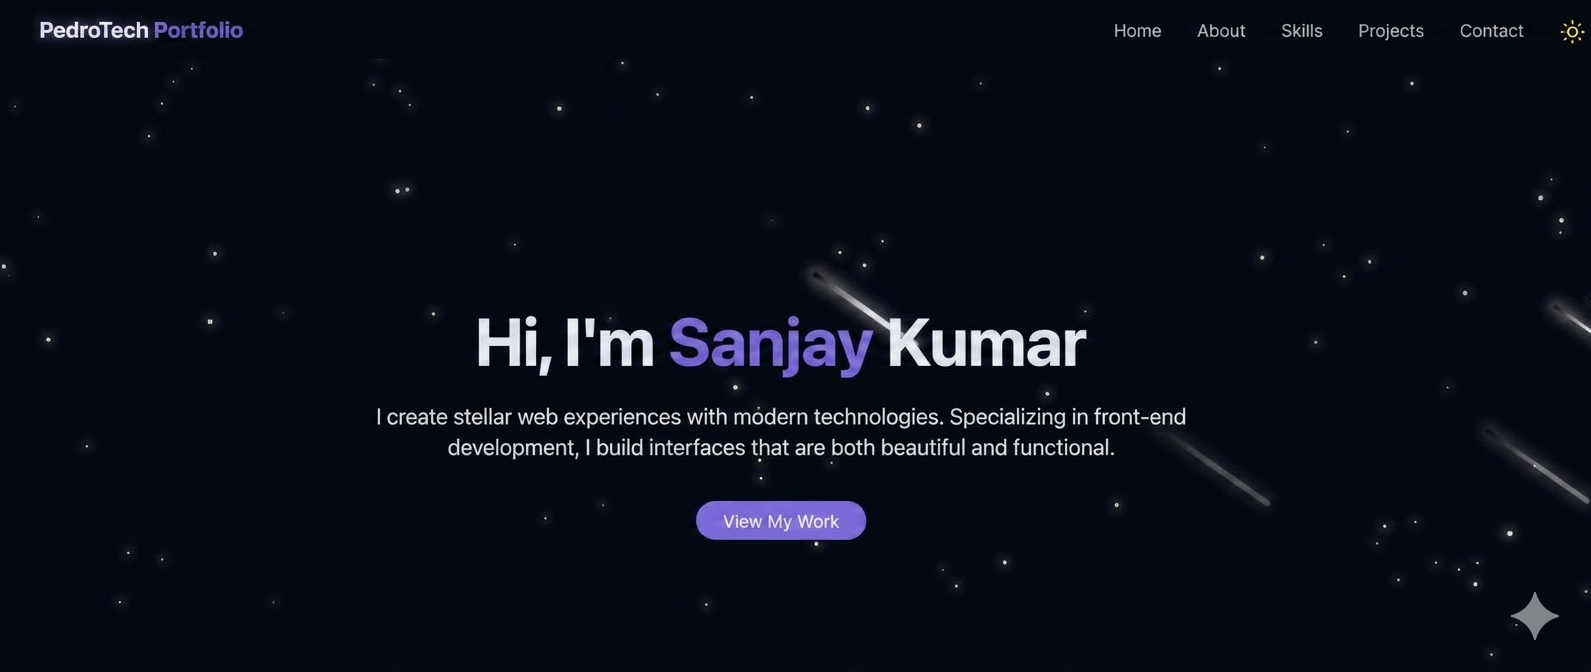
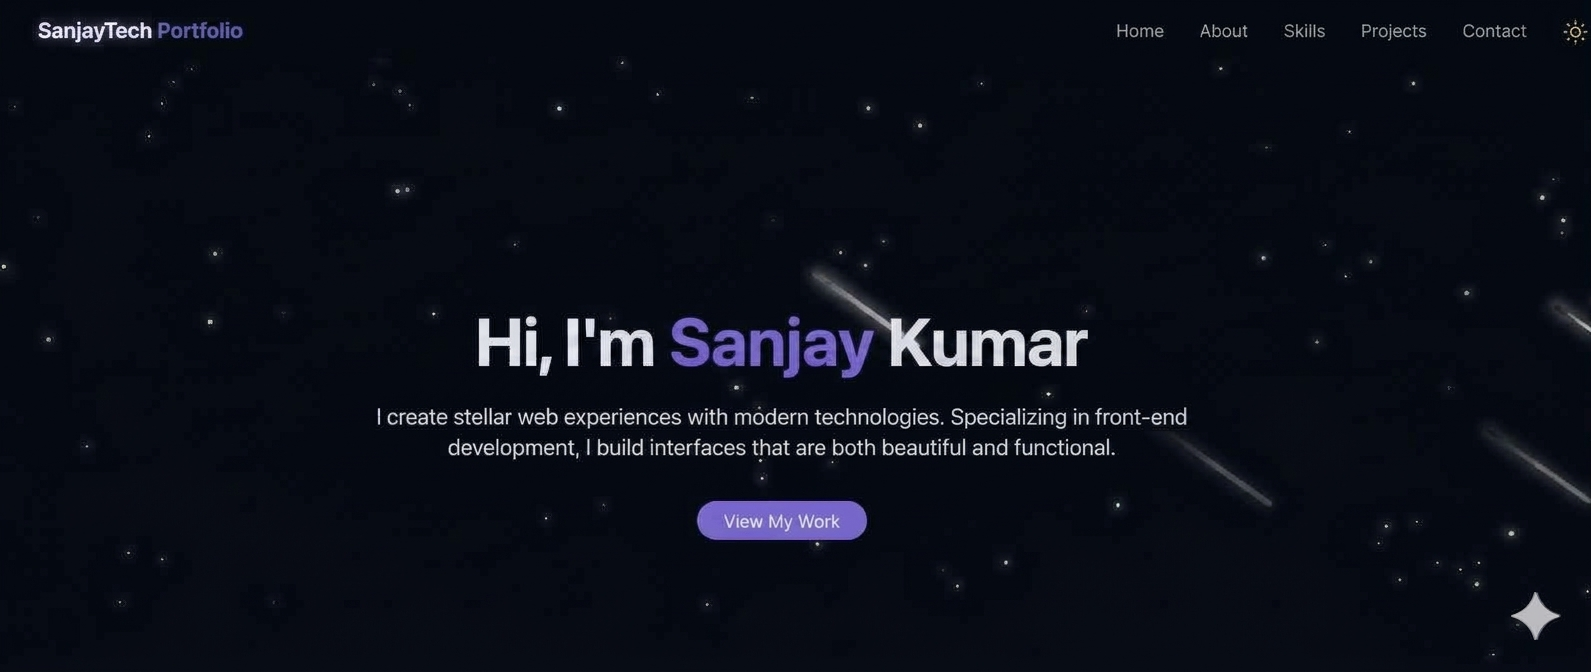
first commit

diff --git a/src/sections/Hero.jsx b/src/sections/Hero.jsx
@@ -136,8 +136,8 @@ export const Hero = () => {
               />
               <div className="relative glass rounded-3xl p-2 glow-border">
                 <img
-                  src="/sk_img-removebg-preview.jpg"
-                  alt="Pedro Machado"
+                  src="/sk_img.png"
+                  alt="sk image"
                   className="w-full aspect-[4/5] object-cover rounded-2xl"
                 />
 
